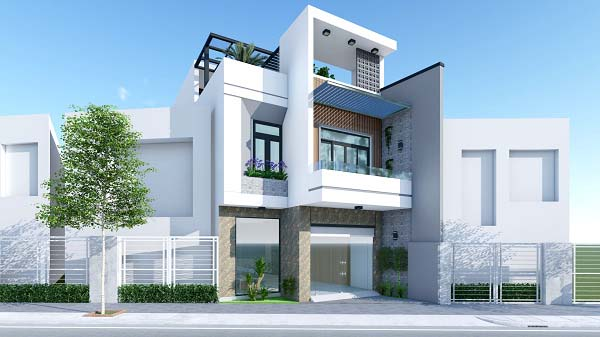
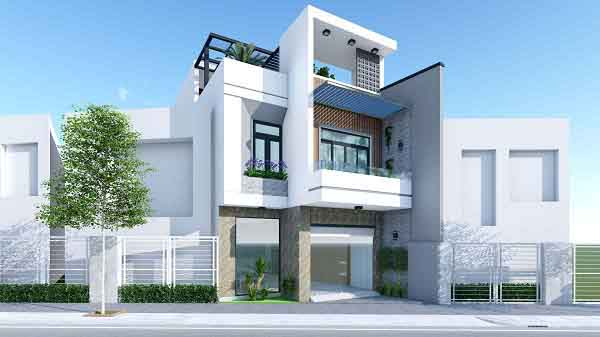
reduce image size

diff --git a/src/components/sections/hero-slider/HeroSliderOne.js b/src/components/sections/hero-slider/HeroSliderOne.js
@@ -2,7 +2,7 @@ import { Col, Row } from "antd";
 import classNames from "classnames";
 import Image from "next/image";
 import Link from "next/link";
-import React, { useEffect, useState } from "react";
+import React, { useState } from "react";
 import Slider from "react-slick";
 import Container from "../../other/Container";
 import { NextArrow, PrevArrow } from "../../other/SliderArrow";
@@ -21,25 +21,6 @@ function HeroSliderOne({ data, containerFluid }) {
   const beforeChange = (oldIndex, newIndex) => {
     setNextSlideIndex(newIndex);
   };
-  useEffect(() => {
-    const currentSlide = document.querySelector(
-      `.hero-slider.-style-one .slick-slide[data-index="${currentSlideIndex}"]`
-    );
-    const animationItems = currentSlide.querySelectorAll("[data-animation]");
-    animationItems.forEach((item, index) => {
-      const animationName = item.dataset.animation;
-      const animationDelay = item.dataset.delay;
-      console.log(animationName);
-      item.classList.add("animate__animated", animationName);
-      item.style.animationDelay = animationDelay + "s";
-      item.addEventListener("animationend", function () {
-        this.classList.remove("animate__animated", animationName);
-        this.removeEventListener("animationend", function () {
-          return;
-        });
-      });
-    });
-  }, [currentSlideIndex]);
 
   return (
     <div className="hero-slider -carousel -style-one">
@@ -64,18 +45,7 @@ function HeroSliderOne({ data, containerFluid }) {
                 />
               </div>
               <Container>
-                <div className="hero-slider-content-wrapper">
-                  {/* <Row align="middle">
-                    <div className="hero-slider-content">
-                      <h5 data-animation="animate__fadeInDown">
-                        {item.subTitle}
-                      </h5>
-                      <h1 data-delay="0.2" data-animation="animate__fadeInDown">
-                        {item.title}
-                      </h1>
-                    </div>
-                  </Row> */}
-                </div>
+                <div className="hero-slider-content-wrapper"></div>
               </Container>
             </div>
           ))}

diff --git a/src/components/sections/introduction/IntroductionFour.js b/src/components/sections/introduction/IntroductionFour.js
@@ -1,5 +1,5 @@
 import { css } from "@emotion/css";
-import React from "react";
+import React, { useEffect, useRef } from "react";
 import dataA from "../../../data/company-info.json";
 import Container from "../../other/Container";
 import SectionTitle from "../../other/SectionTitle";
@@ -18,8 +18,24 @@ const IcHeading = ({ title, line = true }) => {
 
 function IntroductionFour() {
   const data = dataA.introduction.four;
+  const bgRef = useRef(null);
+
+  useEffect(() => {
+    const bg = bgRef.current;
+    const callback = (entries, observer) => {
+      entries.forEach((entry) => {
+        if (entry.isIntersecting) {
+          observer.unobserve(bg);
+          observer.disconnect();
+          entry.target.classList.add("load-bg");
+        }
+      });
+    };
+    const observer = new IntersectionObserver(callback);
+    observer.observe(bg);
+  }, []);
   return (
-    <div className="introduction-four">
+    <div ref={bgRef} className="introduction-four">
       <Container>
         <SectionTitle
           hideDecoration

diff --git a/src/styles/layout/_introduction.scss b/src/styles/layout/_introduction.scss
@@ -35,12 +35,14 @@
 }
 
 .introduction-four {
-  background: {
-    image: url("/assets/images/sections/introduction/four/bg.webp");
-    position: center;
-    size: cover;
-    attachment: fixed;
-    opacity: 0.5;
+  &.load-bg {
+    background: {
+      image: url("/assets/images/sections/introduction/four/bg.webp");
+      position: center;
+      size: cover;
+      attachment: fixed;
+      opacity: 0.5;
+    }
   }
   padding: emCal(16, 50) 0;
   margin-bottom: $section-spacing;
@@ -72,7 +74,7 @@
   margin-bottom: $section-spacing;
   padding: emCal(16, 20) 0;
   background: {
-    image: url("/assets/images/sections/introduction/five/bg.png");
+    image: url("/assets/images/sections/introduction/five/bg.webp");
     size: cover;
     text-align: center;
   }

diff --git a/src/components/sections/introduction/IntroductionTwo.js b/src/components/sections/introduction/IntroductionTwo.js
@@ -23,7 +23,7 @@ function IntroductionTwo() {
             <Col md={12}>
               <div className="introduction-two-image">
                 <Image
-                  src={"/assets/images/sections/introduction/two/1.png"}
+                  src={"/assets/images/sections/introduction/two/1.webp"}
                   alt="introduction-image"
                   objectFit="contain"
                   height={400}

diff --git a/src/styles/layout/_dale-of-week.scss b/src/styles/layout/_dale-of-week.scss
@@ -73,7 +73,7 @@
 .dow-two {
   margin-bottom: $section-spacing;
   background: {
-    image: url("/assets/images/sections/dale-of-week/two/bg.png");
+    image: url("/assets/images/sections/dale-of-week/two/bg.webp");
     size: cover;
     repeat: no-repeat;
     position: center;
